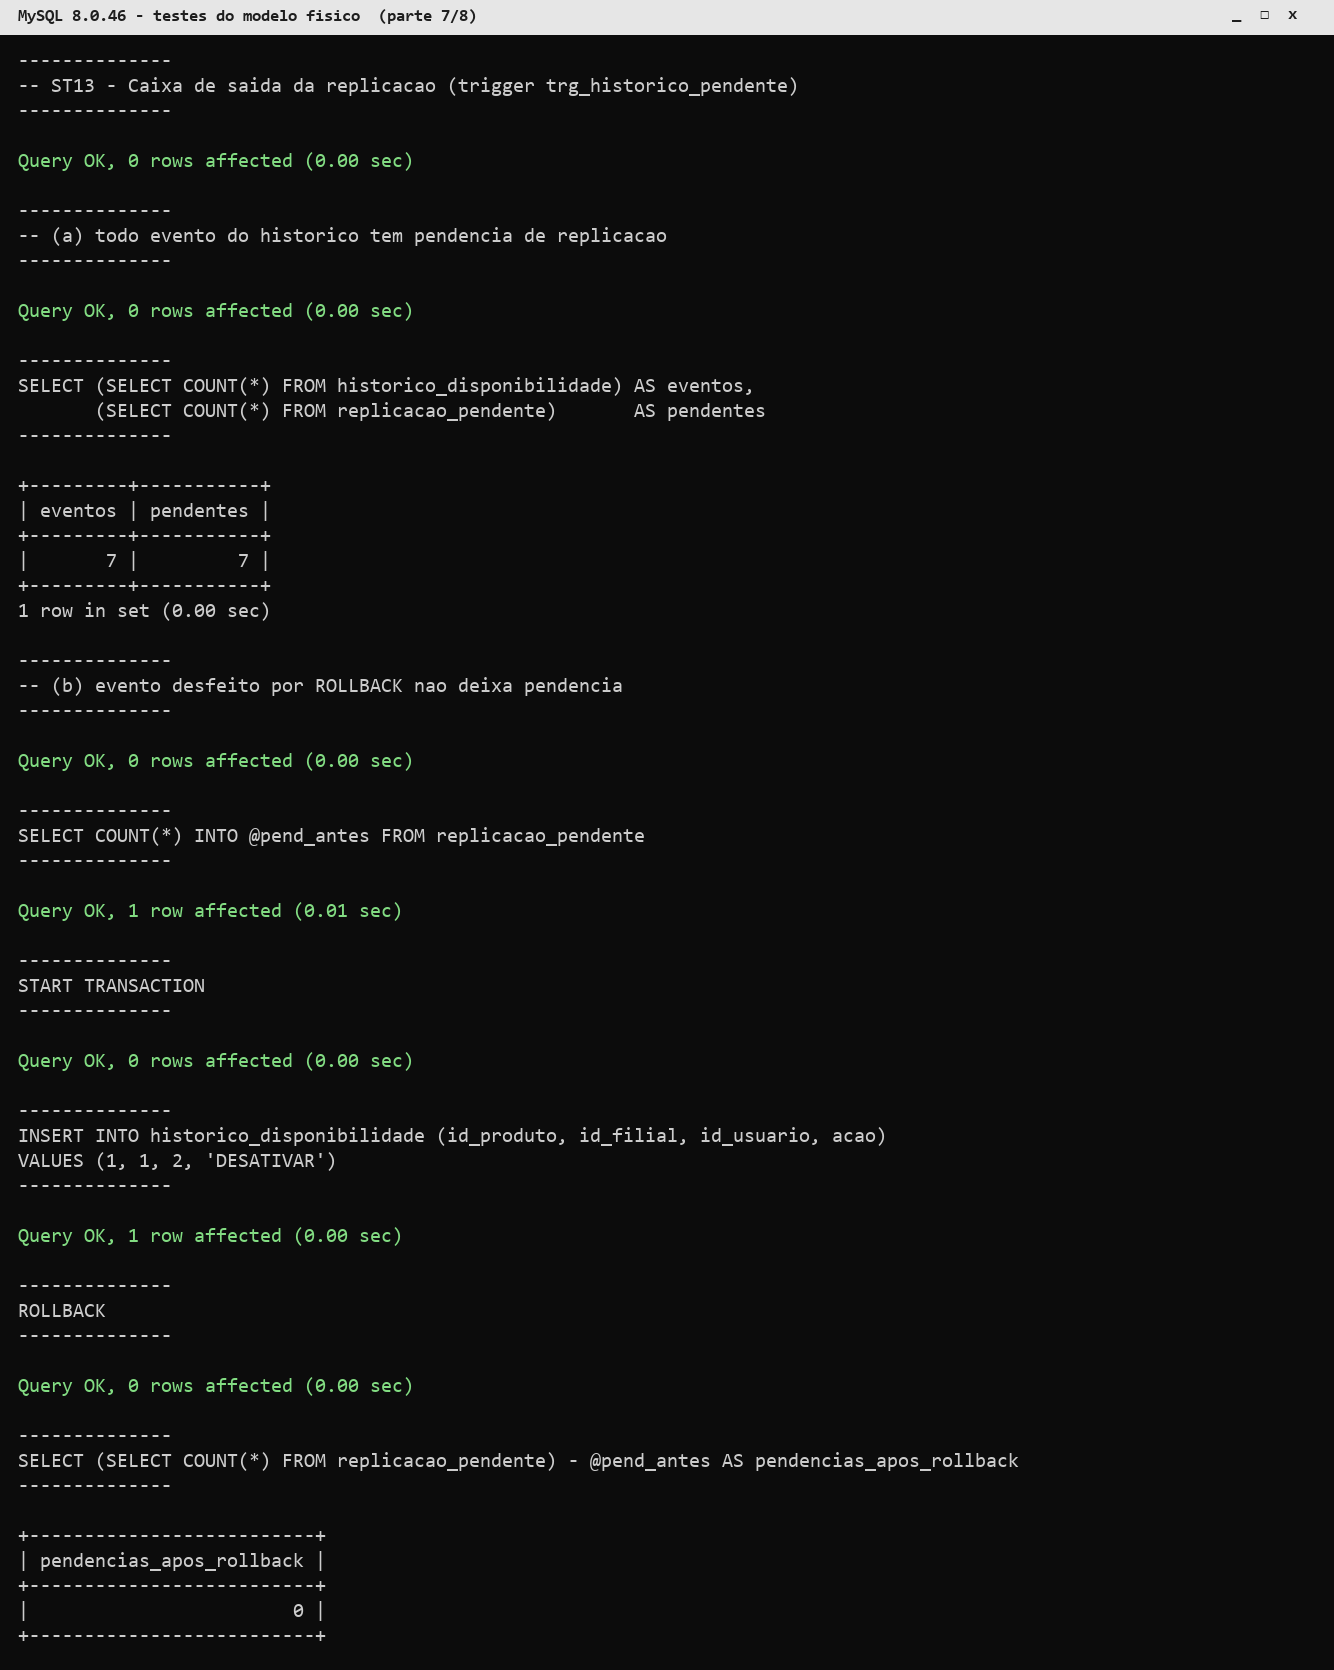
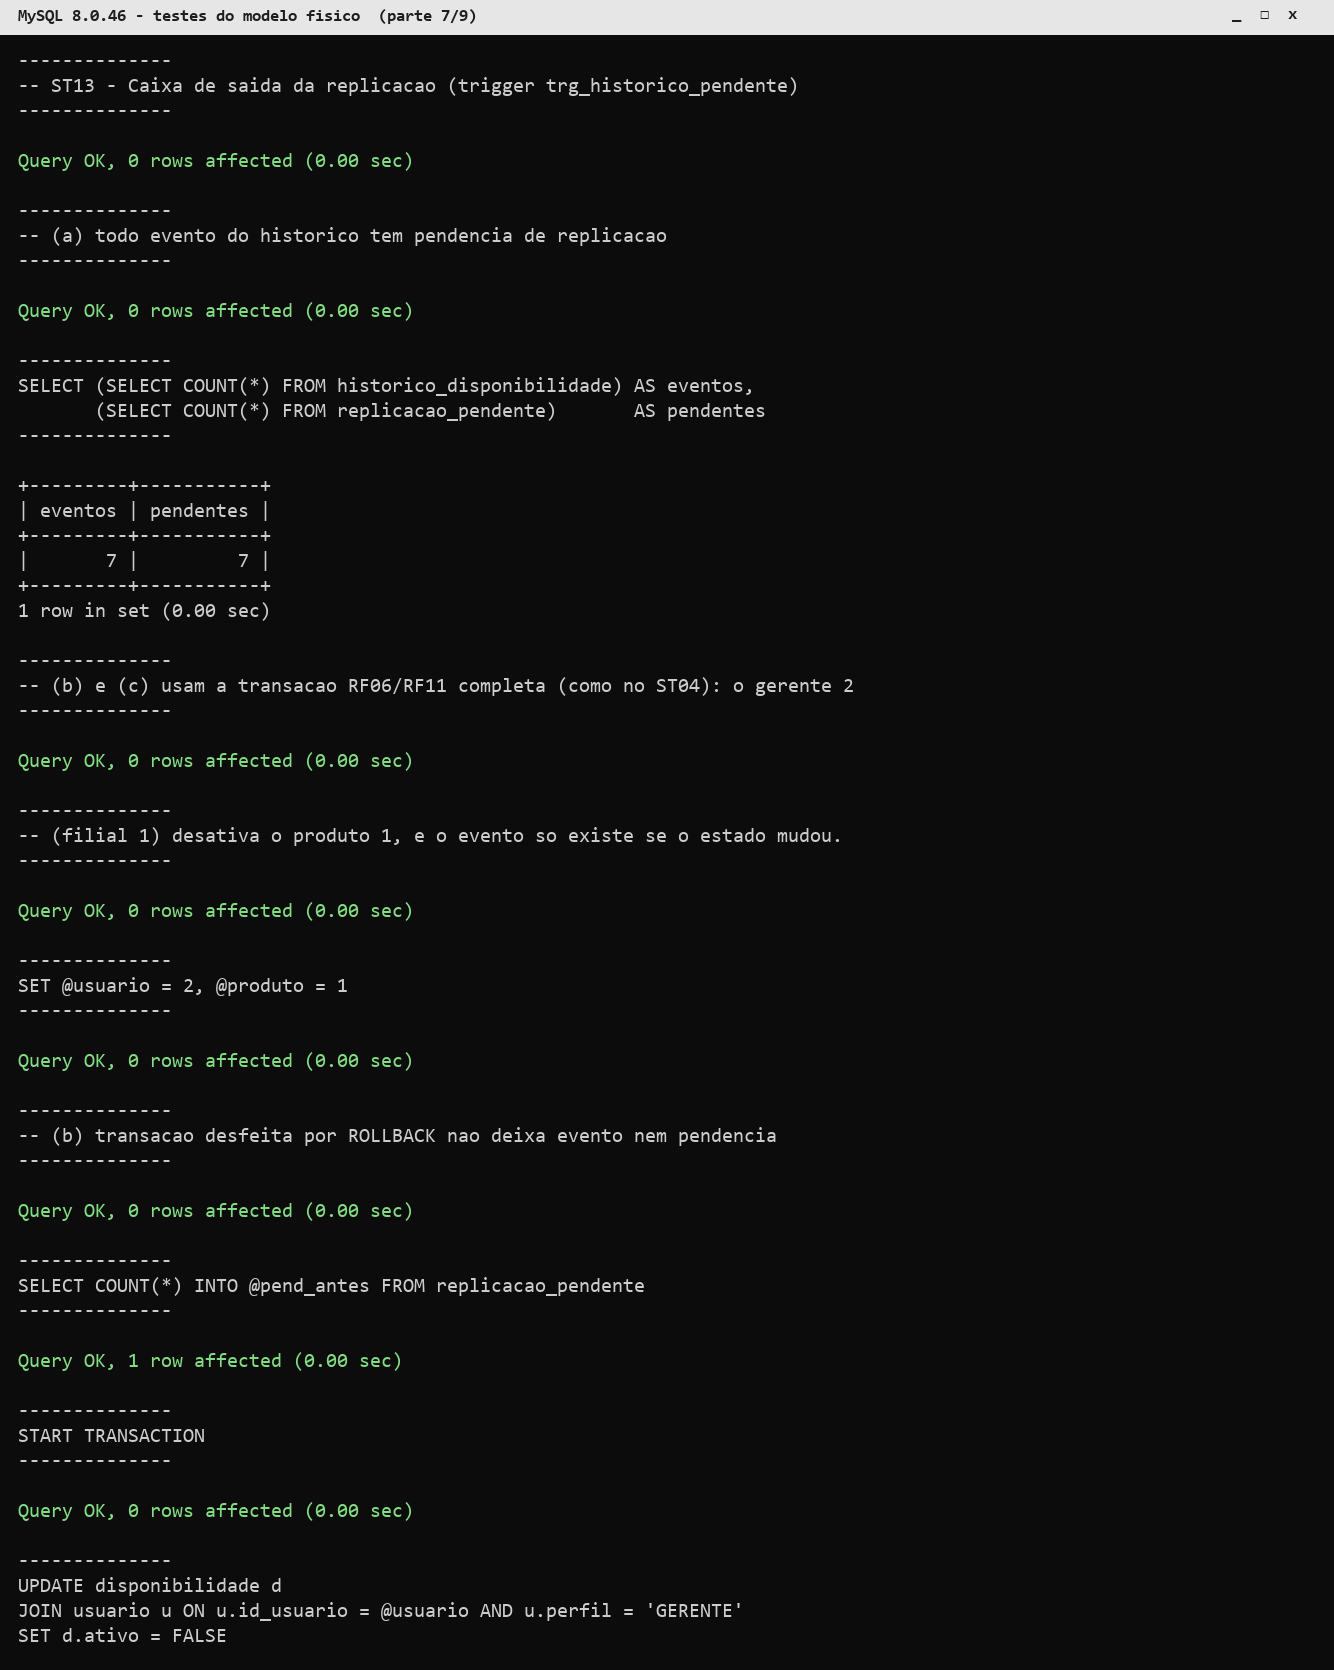
test(db): ST13 usa a transacao RF06/RF11 completa
O evento confirmado agora desativa o produto de verdade, em vez de entrar
no historico sem mudar a disponibilidade.

diff --git a/tests/executar_testes_sql.py b/tests/executar_testes_sql.py
@@ -79,10 +79,10 @@ CHECAGENS = {
              "5 produtos, 3 usuários, 2 harmonizações, 15 disponibilidades",
              [r"\|\s+5 \|\s+3 \|\s+2 \|\s+15 \|"]),
     "ST13": ("Caixa de saída da replicação (trigger de pendência)",
-             "Todo evento pendente; ROLLBACK sem pendência; COMMIT com pendência",
+             "Todo evento pendente; ROLLBACK sem evento nem pendência; COMMIT com pendência",
              [r"eventos[\s\S]*?\|\s+(\d+) \|\s+\1 \|",
-              r"pendencias_apos_rollback[\s\S]*?\|\s+0 \|",
-              r"pendencia_do_novo_evento[\s\S]*?\|\s+1 \|"]),
+              r"pendencias_apos_rollback[\s\S]*?\|\s+0 \|\s+1 \|",
+              r"pendencia_do_novo_evento[\s\S]*?\|\s+1 \|\s+1 \|"]),
 }
 
 
